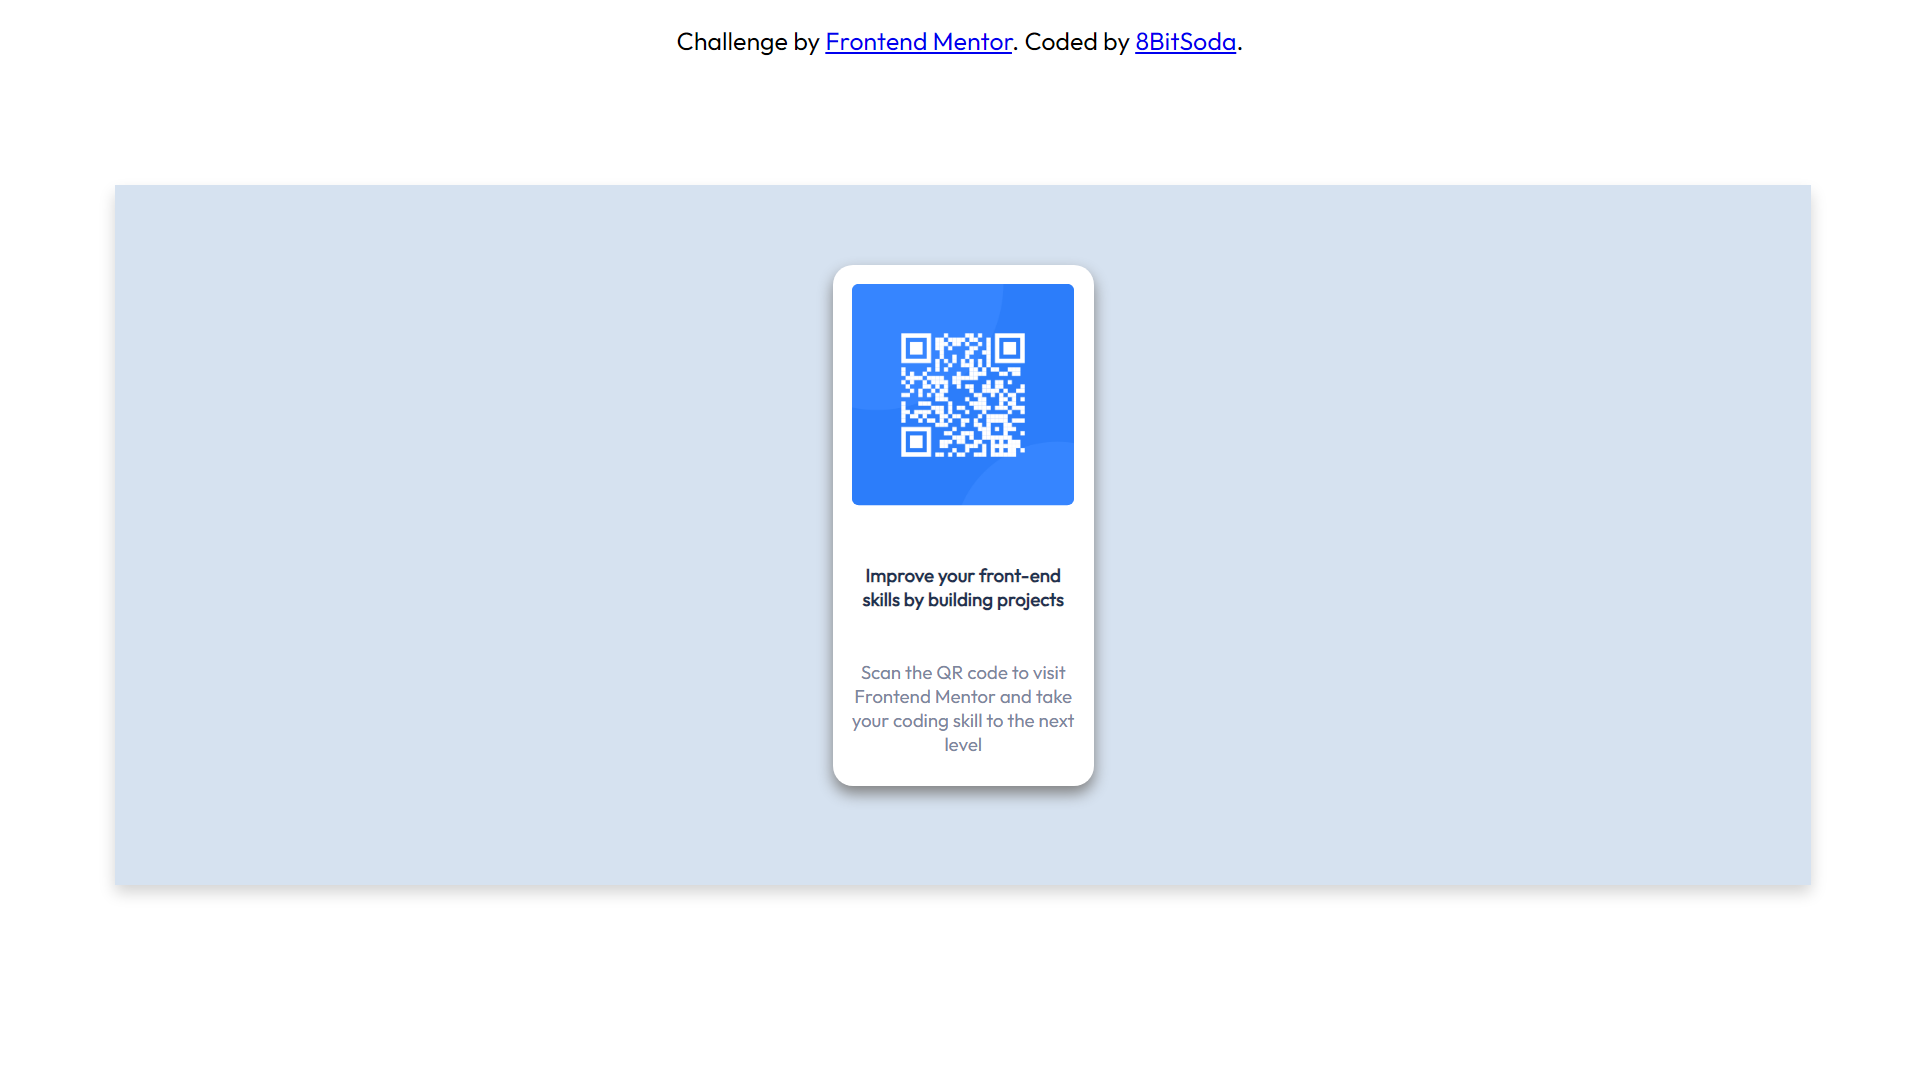
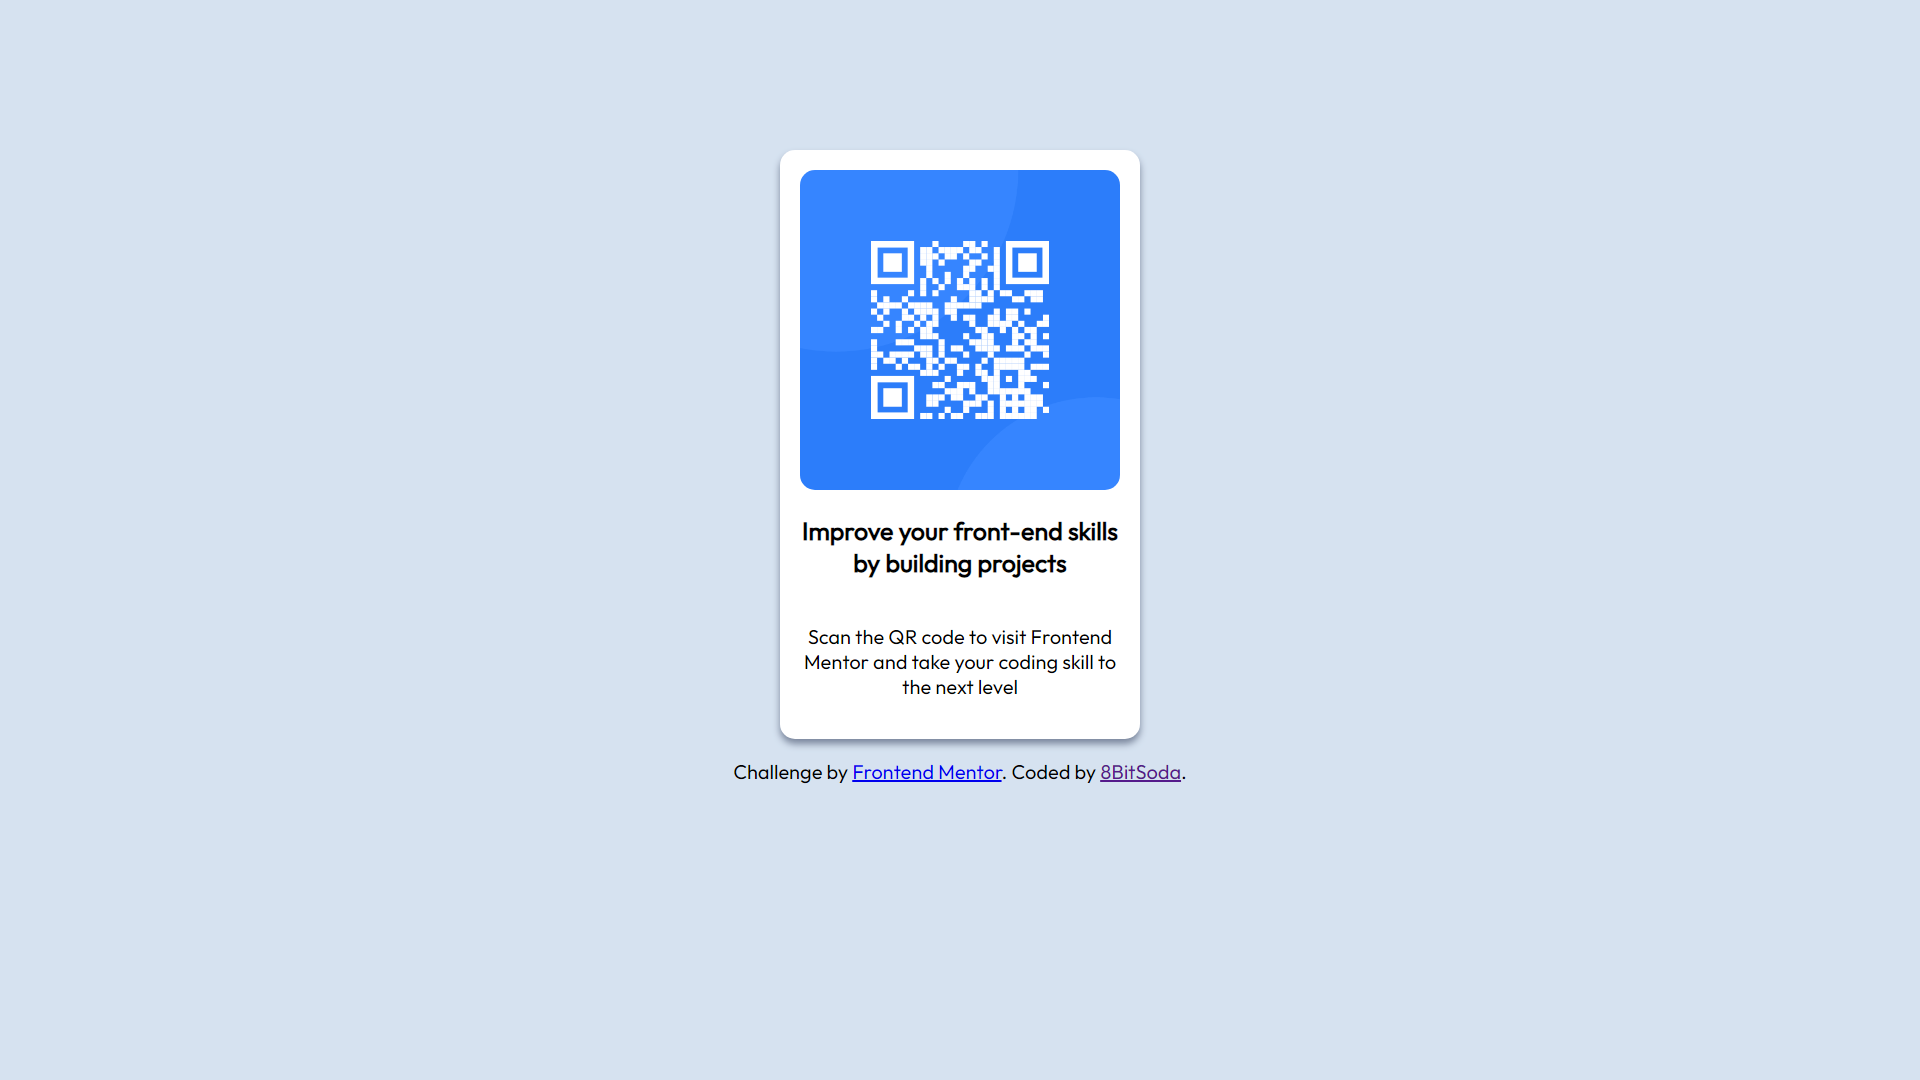
improved code

diff --git a/index.html b/index.html
@@ -2,30 +2,22 @@
 <html lang="en">
 <head>
     <meta charset="UTF-8">
-    <meta name="viewport" content="width=device-width, initial-scale=1.0"> <!-- displays site properly based on user's device -->
+    <meta name="viewport" content="width=device-width, initial-scale=1.0">
 
     <link rel="icon" type="image/png" sizes="32x32" href="./images/favicon-32x32.png">
 
     <title>Frontend Mentor | QR code component</title>
 
-    <!-- Feel free to remove these styles or customise in your own stylesheet 👍 -->
     <link rel="stylesheet" href="style.css">
 </head>
 <body>
-
+    <div class="qr-component">
+        <img src="images/image-qr-code.png" alt="qr-code" class="qr-image">
+        <p class="thick">Improve your front-end skills by building projects</p>
+        <p class="thin">Scan the QR code to visit Frontend Mentor and take your coding skill to the next level</p>
+    </div>
     <div class="attribution">
-        Challenge by <a href="https://www.frontendmentor.io?ref=challenge" target="_blank">Frontend Mentor</a>.
-        Coded by <a href="#">8BitSoda</a>.
-    </div>
-
-    <div class="window">
-        <div class="qr-component">
-            <img src="images/image-qr-code.png" alt="qr-code" class="qr-image">
-            <p class="thick">Improve your front-end skills by building projects</p>
-            <p class="thin">Scan the QR code to visit Frontend Mentor and take your coding skill to the next level</p>
-        </div>
-    </div>
-
+        <p>Challenge by <a href="https://www.frontendmentor.io?ref=challenge">Frontend Mentor</a>. Coded by <a href="https://github.com/8BitSoda">8BitSoda</a>.</p>
     </div>
 </body>
 </html>

diff --git a/style.css b/style.css
@@ -1,52 +1,39 @@
-.attribution {
-    text-align: center;
-    font-family: outfit;
-    font-size: 20px;
-    padding-top: 12px;
-}
+body {
+    display: flex;
+    flex-direction: column;
+    justify-content: center;
+    align-items: center;
 
-.window {
-    position: absolute;
-    top: 50%;
-    left: 50%;
-    margin: -18.5% 0 0 -44%;
-    padding: 64px;
-    width: 80%;
-
+    font-family: outfit, consolas;
     background-color: hsl(212, 45%, 89%);
-    font-family: outfit;
-    font-size: 15px;
-    box-shadow: 0px 6px 12px lightgray;
 }
 
 .qr-component {
-    background-color: hsl(0, 0%, 100%);
-    margin: auto;
-    width: 17%;
+    display: flex;
+    flex-direction: column;
+    flex-wrap: wrap;
     text-align: center;
-    border-radius: 16px;
-    box-shadow: 0px 6px 12px gray;
+    margin-top: 7rem;
+    padding: 1rem;
+    width: 256px;
+    border-radius: 12px;
+
+    box-shadow: 0px 4px 6px 0px hsl(220, 15%, 55%);
+    background-color: white;
 }
 
 .qr-image {
-    padding: 15px;
-    width: 85%;
-    border-radius: 10%;
+    width: 100%;
+    border-radius: 12px;
 }
 
 .thin {
-    padding: 12px;
-    padding-right: 12px;
-    padding-bottom: 24px;
     font-weight: 400;
-    color: hsl(220, 15%, 55%);
 }
 
 .thick {
-    padding: 12px;
-    padding-right: 12px;
+    font-size: 20px;
     font-weight: 700;
-    color: hsl(218, 44%, 22%);
 }
 
 @font-face {

diff --git a/README.md b/README.md
@@ -47,6 +47,7 @@ Moreover, my process of coding is extremely flawed and unstructured, picking off
 ### Useful resources
 
 - [W3schools](https://www.w3schools.com/) and various SO Pages - Helped me get back on track with CSS
+- [Dreamleaf](https://www.frontendmentor.io/profile/Dreamleaf) & [Dipesh](https://www.frontendmentor.io/profile/ddkogit) - Feedback and improvements on code
 
 ## Author
 
